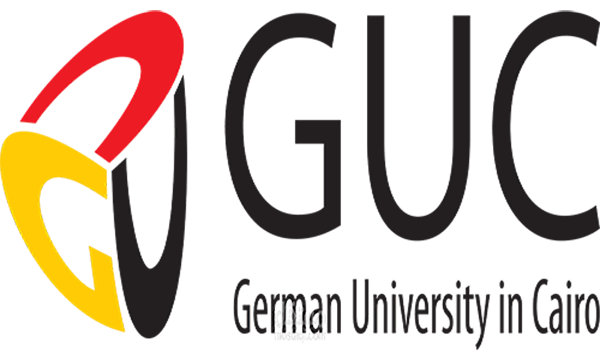
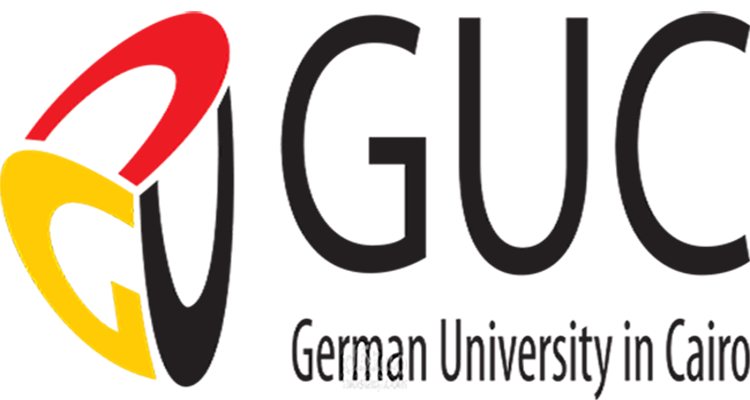
more updates

Changed region(s): [[0.54, 0.8857, 0.57, 0.9429]]

diff --git a/public/css/main.css b/public/css/main.css
@@ -441,7 +441,7 @@ body{
 }
 .partners img.w{
     margin-top: 20px;
-    width: 50%;
+    width: 45%;
 }
 /* Footer */
 .footer{
